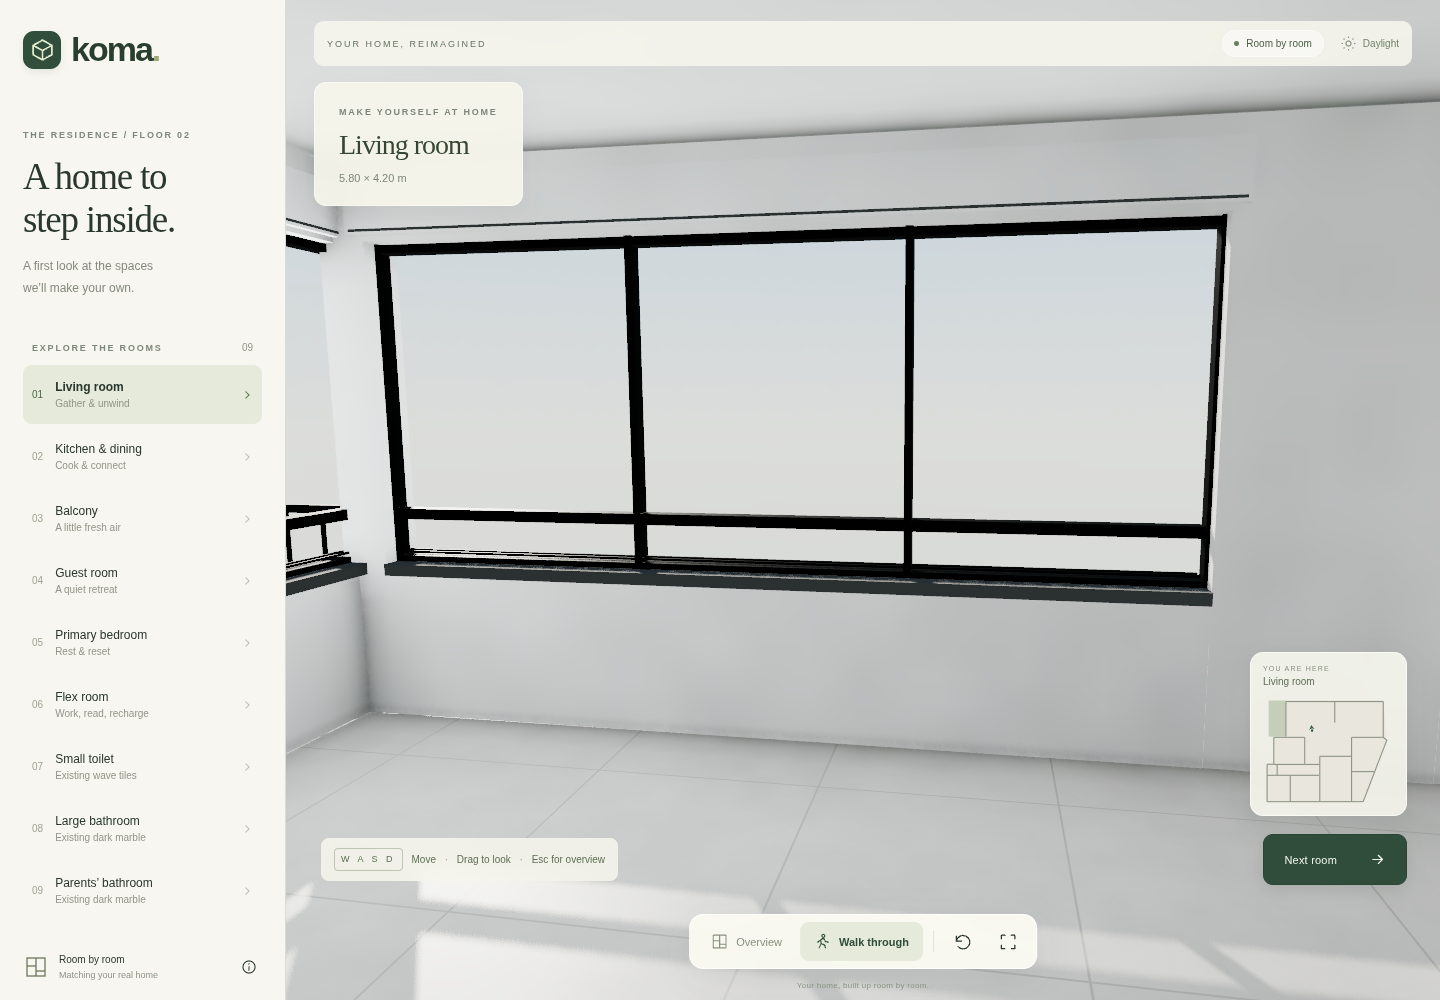
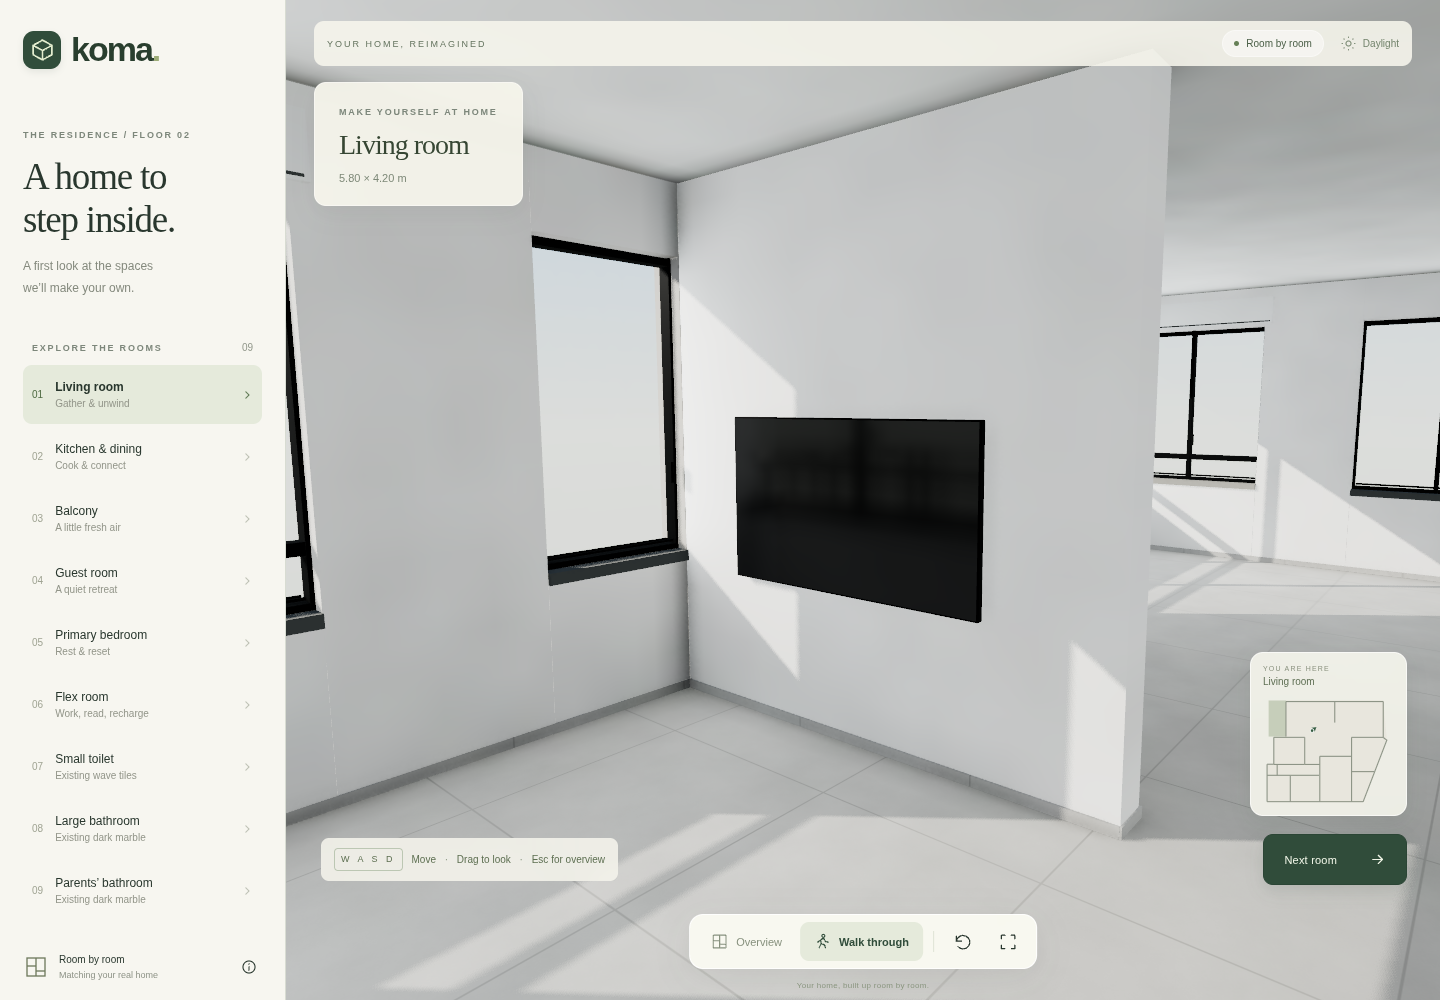
Add floor-matching skirting and a 65-inch living-room TV

diff --git a/src/world.js b/src/world.js
@@ -1,5 +1,6 @@
 import * as THREE from "three";
 import { mergeGeometries } from "three/addons/utils/BufferGeometryUtils.js";
+import { RoundedBoxGeometry } from "three/addons/geometries/RoundedBoxGeometry.js";
 import {
   p,
   HEIGHT,
@@ -11,6 +12,12 @@ import {
 import { createPhotoFinishes } from "./finishes.js";
 import { daylightEnvironment } from "./rendering.js";
 import { daylightUV, floorBounds, LIGHTMAP_RANGE } from "./daylight-layout.js";
+import {
+  livingTV,
+  skirtingRuns,
+  SKIRTING_DEPTH,
+  SKIRTING_HEIGHT,
+} from "./additions.js";
 
 export async function buildWorld(scene, renderer) {
   const root = new THREE.Group();
@@ -41,6 +48,14 @@ export async function buildWorld(scene, renderer) {
     metal = material("#171b1e", 0.42, { metalness: 0.35 });
   for (const mat of Object.values(finishes)) lit(mat);
   const livingFloorMaterial = floorMaterial.clone();
+  const skirtingMaterial = floorMaterial.clone();
+  const tvScreen = new THREE.MeshPhysicalMaterial({
+    color: "#030508",
+    roughness: 0.16,
+    clearcoat: 1,
+    clearcoatRoughness: 0.1,
+    envMapIntensity: 0.5,
+  });
   const glass = material("#dce7ed", 0.07, {
     transparent: true,
     opacity: 0.045,
@@ -310,6 +325,65 @@ export async function buildWorld(scene, renderer) {
       cursor = o.to;
     }
     fill(cursor, length, 0, HEIGHT);
+    for (const run of skirtingRuns(wall)) {
+      box(
+        group,
+        run.to - run.from,
+        SKIRTING_HEIGHT,
+        SKIRTING_DEPTH,
+        (run.from + run.to) / 2,
+        run.floorY + SKIRTING_HEIGHT / 2,
+        run.side * (wall.thickness / 2 + SKIRTING_DEPTH / 2 + 0.001),
+        skirtingMaterial,
+      );
+    }
+    if (wall === livingTV.wall) {
+      // Continue the tile skirting around the exposed end of the short divider.
+      box(
+        group,
+        SKIRTING_DEPTH,
+        SKIRTING_HEIGHT,
+        wall.thickness + 2 * SKIRTING_DEPTH,
+        length + SKIRTING_DEPTH / 2,
+        0.003 + SKIRTING_HEIGHT / 2,
+        0,
+        skirtingMaterial,
+      );
+      const face = wall.thickness / 2,
+        center = length / 2;
+      const casing = material("#111215", 0.42, { metalness: 0.05 });
+      box(
+        group,
+        0.42,
+        0.28,
+        0.02,
+        center,
+        livingTV.centerHeight,
+        face + 0.012,
+        casing,
+      );
+      const body = new THREE.Mesh(
+        new RoundedBoxGeometry(
+          livingTV.width + 0.016,
+          livingTV.height + 0.016,
+          0.035,
+          2,
+          0.006,
+        ),
+        casing,
+      );
+      body.position.set(center, livingTV.centerHeight, face + 0.0395);
+      body.castShadow = true;
+      body.receiveShadow = true;
+      group.add(body);
+      const screen = new THREE.Mesh(
+        new THREE.PlaneGeometry(livingTV.width, livingTV.height),
+        tvScreen,
+      );
+      screen.position.set(center, livingTV.centerHeight, face + 0.0575);
+      screen.receiveShadow = true;
+      group.add(screen);
+    }
   }
   const ceilingShape = new THREE.Shape(
     footprint.map(([x, z]) => new THREE.Vector2(x, -z)),
@@ -350,9 +424,8 @@ export async function buildWorld(scene, renderer) {
   }
   rectFloor(897, 775, 1145, 1050, material("#9e998c"), -0.13);
 
-  // Empty shell at the owner's request. No cabinets (including the orange-X
-  // unit shown beside the kitchen/living divider), furniture, decor, fittings,
-  // or proposed light fixtures. Keep the shortened divider in plan.js.
+  // Add furnishings room by room with the owner. The wall-mounted TV is the
+  // first requested addition; the former orange-X cabinet remains absent.
   const hemi = new THREE.HemisphereLight("#edf4ff", "#989287", 0.08);
   scene.add(hemi);
   const sun = new THREE.DirectionalLight("#fff9ef", 3.2);
@@ -443,7 +516,7 @@ export async function buildWorld(scene, renderer) {
   ground.visible = false;
   const pmrem = new THREE.PMREMGenerator(renderer);
   for (const [point, materials] of [
-    [p(519, 682), [livingFloorMaterial]],
+    [p(519, 682), [livingFloorMaterial, tvScreen]],
     [p(225, 1210), [finishes.marbleBath, finishes.floorBath]],
     [p(960, 1200), [finishes.marbleEnsuite, finishes.floorEnsuite]],
   ]) {
@@ -480,6 +553,7 @@ export async function buildWorld(scene, renderer) {
         trim,
         roof.material,
         livingFloorMaterial,
+        skirtingMaterial,
         ...Object.values(finishes),
       ])
         mat.lightMapIntensity = walking ? LIGHTMAP_RANGE : LIGHTMAP_RANGE * 0.3;

diff --git a/src/main.js b/src/main.js
@@ -2,6 +2,7 @@ import * as THREE from "three";
 import { OrbitControls } from "three/addons/controls/OrbitControls.js";
 import { buildWorld } from "./world.js";
 import { createRendering } from "./rendering.js";
+import { livingTV } from "./additions.js";
 import {
   rooms,
   walls,
@@ -57,7 +58,7 @@ document.querySelector("#app").innerHTML = `
     <div id="loading"><span class="loading-mark">${icon("volume")}</span><strong>Making room for you.</strong><span>Preparing your home…</span></div>
     <div id="toast" role="status"></div>
   </main>
-  <dialog id="about-dialog" aria-labelledby="about-title"><button id="close-about" class="icon-button dialog-close" aria-label="Close details">${icon("close")}</button><span class="eyebrow">ROOM BY ROOM</span><h2 id="about-title">A starting point.<br>A place for possibilities.</h2><p>The layout is traced from your <strong>koma-b.pdf</strong> floor plan. The rooms are cleared of added furniture, cabinets, fittings, and decor so we can design from your real space. The 1 × 1 m grey floor tiles, black frames, shutter covers, small-toilet wave tiles, and dark marble in both bathrooms now follow your photos.</p><dl><dt>Based on the plan</dt><dd>Room arrangement, the balcony, major openings, the angled façade, and the stairwell position.</dd><dt>Still to confirm</dt><dd>Ceilings are assumed to be 2.80 m high. The balcony doorway is estimated at 1.60 m wide from the tile grid and photos. The bathrooms share the photographed dark marble. Their 60 cm tile spacing is provisional; window heights and exact tile sizes still need measurements. Unphotographed rooms remain provisional.</dd><dt>One floor to explore</dt><dd>The stairs are shown for context. This walkthrough stays on the floor in the supplied plan; the stairwell is closed to walking.</dd></dl><p class="small-print">This is a design visualisation, not a measured survey or construction drawing.</p><button class="dialog-done" id="dialog-done">Back to exploring ${icon("arrow")}</button></dialog>
+  <dialog id="about-dialog" aria-labelledby="about-title"><button id="close-about" class="icon-button dialog-close" aria-label="Close details">${icon("close")}</button><span class="eyebrow">ROOM BY ROOM</span><h2 id="about-title">A starting point.<br>A place for possibilities.</h2><p>The layout is traced from your <strong>koma-b.pdf</strong> floor plan. We are building up the rooms from your real space. The first additions are a 65-inch TV facing the living room and 5 cm floor-matching skirting outside the bathrooms. The 1 × 1 m grey floor tiles, black frames, shutter covers, small-toilet wave tiles, and dark marble in both bathrooms now follow your photos.</p><dl><dt>Based on the plan</dt><dd>Room arrangement, the balcony, major openings, the angled façade, and the stairwell position.</dd><dt>Still to confirm</dt><dd>Ceilings are assumed to be 2.80 m high. The balcony doorway is estimated at 1.60 m wide from the tile grid and photos. The bathrooms share the photographed dark marble. Their 60 cm tile spacing is provisional; window heights and exact tile sizes still need measurements. Unphotographed rooms remain provisional.</dd><dt>One floor to explore</dt><dd>The stairs are shown for context. This walkthrough stays on the floor in the supplied plan; the stairwell is closed to walking.</dd></dl><p class="small-print">This is a design visualisation, not a measured survey or construction drawing.</p><button class="dialog-done" id="dialog-done">Back to exploring ${icon("arrow")}</button></dialog>
 `;
 
 let renderer;
@@ -196,10 +197,8 @@ function visit(id) {
   activeRoom = room;
   setMode("walk");
   camera.position.set(room.point[0], EYE_HEIGHT, room.point[1]);
-  yaw = Math.atan2(
-    -(room.look[0] - room.point[0]),
-    -(room.look[1] - room.point[1]),
-  );
+  const look = room.id === "living" ? livingTV.lookAt : room.look;
+  yaw = Math.atan2(-(look[0] - room.point[0]), -(look[1] - room.point[1]));
   pitch = -0.12;
   camera.rotation.set(pitch, yaw, 0, "YXZ");
   updateRoomUI(room);

diff --git a/src/additions.js b/src/additions.js
@@ -1,0 +1,117 @@
+import {
+  bathroomFloors,
+  footprint,
+  p,
+  pointInPolygon,
+  stairs,
+  walls,
+} from "./plan.js";
+
+export const SKIRTING_HEIGHT = 0.05;
+export const SKIRTING_DEPTH = 0.01;
+const bathroomAreas = [
+  ...bathroomFloors.map((room) => room.polygon),
+  [
+    [104, 992],
+    [197, 992],
+    [197, 1094],
+    [104, 1094],
+  ].map(([x, z]) => p(x, z)),
+];
+const exclusions = [...bathroomAreas, stairs];
+const openLivingArea = [
+  [278, 414],
+  [1175, 414],
+  [1175, 744],
+  [278, 744],
+].map(([x, z]) => p(x, z));
+const cross = (a, b) => a[0] * b[1] - a[1] * b[0];
+
+// Split each wall face at room boundaries and floor-level openings. Testing the
+// room side of a wall keeps shared bathroom partitions skirted only on the dry side.
+export function skirtingRuns(wall) {
+  const delta = [wall.b[0] - wall.a[0], wall.b[1] - wall.a[1]];
+  const length = Math.hypot(...delta),
+    direction = delta.map((v) => v / length);
+  const runs = [];
+  for (const side of [-1, 1]) {
+    // The traced footprint is slightly wider than some facade wall centrelines.
+    // Explicitly exclude their outside faces rather than skirting that margin.
+    const wallIndex = walls.indexOf(wall);
+    if (
+      (wallIndex >= 0 && wallIndex <= 7 && side < 0) ||
+      (wallIndex === 9 && side > 0)
+    )
+      continue;
+    const offset = side * (wall.thickness / 2 + 0.12);
+    const origin = [
+      wall.a[0] - direction[1] * offset,
+      wall.a[1] + direction[0] * offset,
+    ];
+    const cuts = [0, length];
+    const openings = wall.openings.filter((o) => o.bottom < SKIRTING_HEIGHT);
+    for (const opening of openings) cuts.push(opening.from, opening.to);
+    const tiledFaces = wall.finishes.filter((finish) => finish.side === side);
+    for (const finish of tiledFaces) cuts.push(finish.from, finish.to);
+    for (const polygon of [footprint, openLivingArea, ...exclusions]) {
+      for (let i = 0; i < polygon.length; i++) {
+        const a = polygon[i],
+          b = polygon[(i + 1) % polygon.length];
+        const edge = [b[0] - a[0], b[1] - a[1]],
+          determinant = cross(direction, edge);
+        if (Math.abs(determinant) < 1e-8) continue;
+        const relative = [a[0] - origin[0], a[1] - origin[1]];
+        const along = cross(relative, edge) / determinant;
+        const across = cross(relative, direction) / determinant;
+        if (along > 0 && along < length && across >= 0 && across <= 1)
+          cuts.push(along);
+      }
+    }
+    cuts.sort((a, b) => a - b);
+    for (let i = 1; i < cuts.length; i++) {
+      const from = cuts[i - 1],
+        to = cuts[i],
+        center = (from + to) / 2;
+      if (
+        to - from < 0.002 ||
+        openings.some((o) => center >= o.from && center <= o.to) ||
+        tiledFaces.some((f) => center >= f.from && center <= f.to)
+      )
+        continue;
+      const point = [
+        origin[0] + direction[0] * center,
+        origin[1] + direction[1] * center,
+      ];
+      if (
+        !pointInPolygon(...point, footprint) ||
+        exclusions.some((poly) => pointInPolygon(...point, poly))
+      )
+        continue;
+      const floorY = pointInPolygon(...point, openLivingArea) ? 0.003 : 0;
+      const previous = runs.at(-1);
+      if (
+        previous?.side === side &&
+        previous.floorY === floorY &&
+        Math.abs(previous.to - from) < 0.002
+      )
+        previous.to = to;
+      else runs.push({ from, to, side, floorY });
+    }
+  }
+  return runs;
+}
+
+const divider = walls.find(
+  (wall) => wall.a[0] === p(728, 414)[0] && wall.b[1] === p(728, 608)[1],
+);
+const screenDiagonal = 65 * 0.0254;
+export const livingTV = {
+  wall: divider,
+  width: (screenDiagonal * 16) / Math.hypot(16, 9),
+  height: (screenDiagonal * 9) / Math.hypot(16, 9),
+  centerHeight: 1.15, // Initial mounting assumption, adjustable with the owner.
+  lookAt: [
+    (divider.a[0] + divider.b[0]) / 2,
+    (divider.a[1] + divider.b[1]) / 2,
+  ],
+};

diff --git a/tests/navigation.test.js b/tests/navigation.test.js
@@ -8,7 +8,41 @@ import {
   footprint,
   balcony,
   pointInPolygon,
+  walls,
+  SCALE,
 } from "../src/plan.js";
+import { skirtingRuns } from "../src/additions.js";
+
+test("tile skirting leaves doors and bathroom faces clear, retaining the dry side", () => {
+  // A shared WC/hall wall retains both short hall sections but no WC strip.
+  const wcHall = skirtingRuns(walls[13]);
+  assert.equal(wcHall.length, 2);
+  assert.ok(wcHall.every((run) => run.side === -1));
+  // The large bathroom/flex-room partition is tiled only on the flex side.
+  const bathFlex = skirtingRuns(walls[15]);
+  assert.equal(bathFlex.length, 1);
+  assert.equal(bathFlex[0].side, -1);
+  // This wall borders a bathroom, WC and hall; only the solid hall face remains.
+  const shared = skirtingRuns(walls[14]);
+  assert.equal(shared.length, 1);
+  assert.equal(shared[0].side, -1);
+  assert.ok(Math.abs(shared[0].from * SCALE - 93) < 0.001);
+  assert.ok(Math.abs(shared[0].to * SCALE - 153) < 0.001);
+  for (const wall of walls) {
+    for (const run of skirtingRuns(wall)) {
+      for (const door of wall.openings.filter((o) => o.type === "door"))
+        assert.ok(
+          run.to <= door.from + 1e-6 || run.from >= door.to - 1e-6,
+          "no strip across a doorway",
+        );
+      for (const face of wall.finishes.filter((f) => f.side === run.side))
+        assert.ok(
+          run.to <= face.from + 1e-6 || run.from >= face.to - 1e-6,
+          "no strip on a bathroom finish",
+        );
+    }
+  }
+});
 
 test("room destinations are inside the floor and clear of walls", () => {
   for (const room of rooms) {

diff --git a/README.md b/README.md
@@ -1,6 +1,6 @@
 # Koma — a home to explore
 
-A view-only Three.js walkthrough reconstructed from `koma-b.pdf`. Visitors can walk, look around, jump between nine rooms, and orbit a cutaway overview. The current model is an empty architectural shell, ready to design from the real home. All design changes are maintained in the repository; there are no visitor editing controls or accounts.
+A view-only Three.js walkthrough reconstructed from `koma-b.pdf`. Visitors can walk, look around, jump between nine rooms, and orbit a cutaway overview. The model follows the real home, with furnishings added room by room as requested. All design changes are maintained in the repository; there are no visitor editing controls or accounts.
 
 ![The home in the 3D overview](docs/overview.png)
 
@@ -31,7 +31,7 @@ Build with `npm run build`; serve the result with `npm run preview`. All geometr
 
 ## Model and assumptions
 
-`src/plan.js` contains the traced footprint, walls, openings, room destinations, and collision geometry. The 1,530 cm overall plan dimension calibrates the reference image to metres. `src/world.js` builds the empty architectural shell with photo-referenced surfaces and daylight. Static geometry is batched for mobile performance. `src/rendering.js` adds daylight environment lighting and contact shadows; each bathroom has a cached reflection capture of its actual 3D walls and windows. Rendering pauses while the view is still, and contact shadows use reduced resolution.
+`src/plan.js` contains the traced footprint, walls, openings, room destinations, and collision geometry. The 1,530 cm overall plan dimension calibrates the reference image to metres. `src/world.js` builds the architectural shell and requested additions with photo-referenced surfaces and daylight. Static geometry is batched for mobile performance. `src/rendering.js` adds daylight environment lighting and contact shadows; each bathroom has a cached reflection capture of its actual 3D walls and windows. Rendering pauses while the view is still, and contact shadows use reduced resolution.
 
 Daylight is baked through the actual openings with four diffuse bounces, so light fades and changes direction across the rooms. `scripts/bake-daylight.mjs` traces the empty shell at build time and saves a small lightmap atlas. `npm run build` checks its fingerprint and only re-bakes when the plan or bake code changes (around four minutes locally); the committed atlas loads directly on visitors' devices. Sun direction and brightness are artistic daylight estimates, not a study of the building's orientation or a particular time of day. Walls have subtle plaster grain, and the floor has recessed grout and varied porcelain roughness. The living/kitchen floor also uses a cached reflection of that space.
 
@@ -39,8 +39,10 @@ Daylight is baked through the actual openings with four diffuse bounces, so ligh
 - Window sill/head heights and some openings are inferred. Verify them on site; photo-matched framing is applied to the living room, dining window corner, balcony slider, and small WC.
 - The guest-room entrance follows the owner's marked hallway screenshot: the old opening in the east wall is closed, and the doorway moves left around the corner to the south wall. Its existing approximate **0.81 m width × 2.18 m height** is preserved; the exact position and dimensions still need site measurements.
 - The owner confirmed the living/kitchen divider's outlined extension was never built. The model retains the solid section shown on the plan (approximately 2.65 m long); its exact length still needs a site measurement.
-- All added furniture, cabinetry, appliances, bathroom fittings, wall decor, plants, rugs, and light fixtures have been removed at the owner’s request. The orange-X unit shown beside the kitchen/living divider in the plan is intentionally absent.
+- The original proposed furniture, cabinetry, appliances, bathroom fittings, wall decor, plants, rugs, and light fixtures were removed at the owner’s request; new additions are agreed room by room. The orange-X unit shown beside the kitchen/living divider in the plan is intentionally absent.
 - Owner photos confirm white walls, black aluminium frames, shutter covers, and **1 × 1 m** grey concrete-look floor tiles. A four-metre procedural texture atlas preserves the exact one-metre grout spacing; colours and texture are approximate. Floor continuity into unphotographed rooms remains provisional.
+- Tile skirting is **5 cm high**, using the same grey floor material, on interior wall faces throughout the dry rooms and hall. All three bathroom interiors are excluded; doorways stay clear. Its **1 cm thickness** is an assumption. The strip wraps around the exposed kitchen/living divider end.
+- A **65-inch (16:9)** TV is mounted on the divider facing the living room. The active screen is approximately **1.439 × 0.809 m**, with a slim bezel, wall bracket and reflective switched-off screen. Screen centre is initially **1.15 m above the floor**; mounting height is adjustable. The living-room destination faces the TV. Dimensions and skirting runs live in `src/additions.js`.
 - The balcony slider is **approximately 1.60 m frame to frame**, estimated from the tiles/photo proportions. It is shown half open; collision blocks the stacked glass leaves and leaves the other half walkable.
 - The separate small WC opposite the stairs is restored from the plan, with white horizontal-wave wall tiles and a charcoal window wall from the supplied photo. Window dimensions and wave-tile panel sizes are estimates. The larger bathroom remains unfitted.
 - Both the large bathroom and parents’ bathroom use the same dark marble-look porcelain, confirmed by the owner. The albedo texture in `src/assets/dark-marble.png` is generated from the supplied reference, not an exact scan of the installed tiles. Walls are polished and floors less glossy. The **60 × 60 cm bathroom tile grid is provisional**; the living-area one-metre dimension is not assumed for these tiles.
@@ -80,3 +82,5 @@ This creates a Pages site; for an existing site, inspect it first and update its
 Use the existing checkout (cloud tasks are already isolated; no additional worktree is necessary). Change room geometry in `src/plan.js`, then update the shell or add owner-requested furnishings in `src/world.js`. Keep visitor controls view-only. Re-run the navigation tests when moving walls, openings, room destinations, or furniture.
 
 For each room, match the existing shell and finishes from photos first, review the walkthrough together, then add agreed fittings and furniture. Keep photo-confirmed facts separate from estimates in this document.
+
+For a closer match to the real photos, see the [Blender + fSpy workflow and tool research](docs/realism-workflow.md).

diff --git a/docs/realism-workflow.md b/docs/realism-workflow.md
@@ -1,0 +1,35 @@
+# Matching the real home more closely
+
+Research checked 11 October 2026. The recommended next authoring workflow is **Blender + fSpy**, retaining this Three.js website for the public walkthrough.
+
+| Tool | Role in this project | Practical limit |
+| --- | --- | --- |
+| Blender with Cycles | Build detailed, editable room geometry; tune physically based materials and lighting; render reference views; prepare textures and GLB assets for the website. | A Cycles still render does not transfer unchanged into a real-time web viewer. Geometry/material export and baked lighting need deliberate integration. |
+| fSpy and its Blender importer | Estimate a photograph's camera, then import that camera and reference image into Blender. Compare a modeled room against the same viewpoint. | Camera matching does not automatically reconstruct the room or establish dimensions without a known scale. |
+| Meshroom / AliceVision | Reconstruct geometry and camera positions from overlapping photographs; useful as an additional survey reference when fuller captures are available. | Requires suitable overlapping captures. Bare white walls, glass and polished tiles make reconstruction harder; the existing few room snapshots do not establish complete coverage. |
+
+## Recommended sequence
+
+1. Calibrate one living-room photo using the wall/window edges and the confirmed 1 m floor grid. Preserve the owner-corrected divider and doorway layout.
+2. Rebuild and compare the room from that camera before adding more furnishings. Confirm ceiling height, wall lengths and window/door sizes with measurements.
+3. Use clear, evenly lit tile close-ups or the actual manufacturer's tile maps to reproduce the floor and both bathroom finishes. Match tile scale, grout, colour and surface roughness separately; the current textures remain approximations.
+4. Match daylight direction, exposure, frames, wall thickness and edge details against the reference. Produce a Cycles reference render for comparison.
+5. Export optimized geometry and PBR textures through Blender's glTF/GLB exporter. Bake indirect lighting for the website's lightmap pipeline, retain collision and room navigation, then test on a phone.
+6. Repeat room by room. Keep original private photos out of the public build.
+
+No tool can guarantee an exact reconstruction of unseen surfaces or exact material colour/lighting from these photos alone. Camera calibration, measurements and material references address different sources of error.
+
+## Verified here
+
+- Blender **4.3.2** is installed and callable directly. A small background CPU Cycles render and GLB export both succeeded.
+- This Blender build has no OpenImageDenoise support. The capability check rendered with denoising disabled; a production render would need enough samples or a supported denoiser/build.
+- fSpy's official importer supports camera and background-image import. It has been researched, but no fSpy calibration or importer installation has been performed in this update.
+- Meshroom has been researched, not installed or tested here.
+- Product websites were blocked by this environment's network policy, so the research used the projects' official GitHub documentation and a local Blender capability check.
+
+## Sources
+
+- [fSpy: still-image camera matching](https://github.com/stuffmatic/fSpy)
+- [Official fSpy Blender importer](https://github.com/stuffmatic/fSpy-Blender)
+- [Official Khronos Blender glTF importer/exporter](https://github.com/KhronosGroup/glTF-Blender-IO)
+- [Meshroom / AliceVision: multi-view 3D reconstruction](https://github.com/alicevision/Meshroom)
